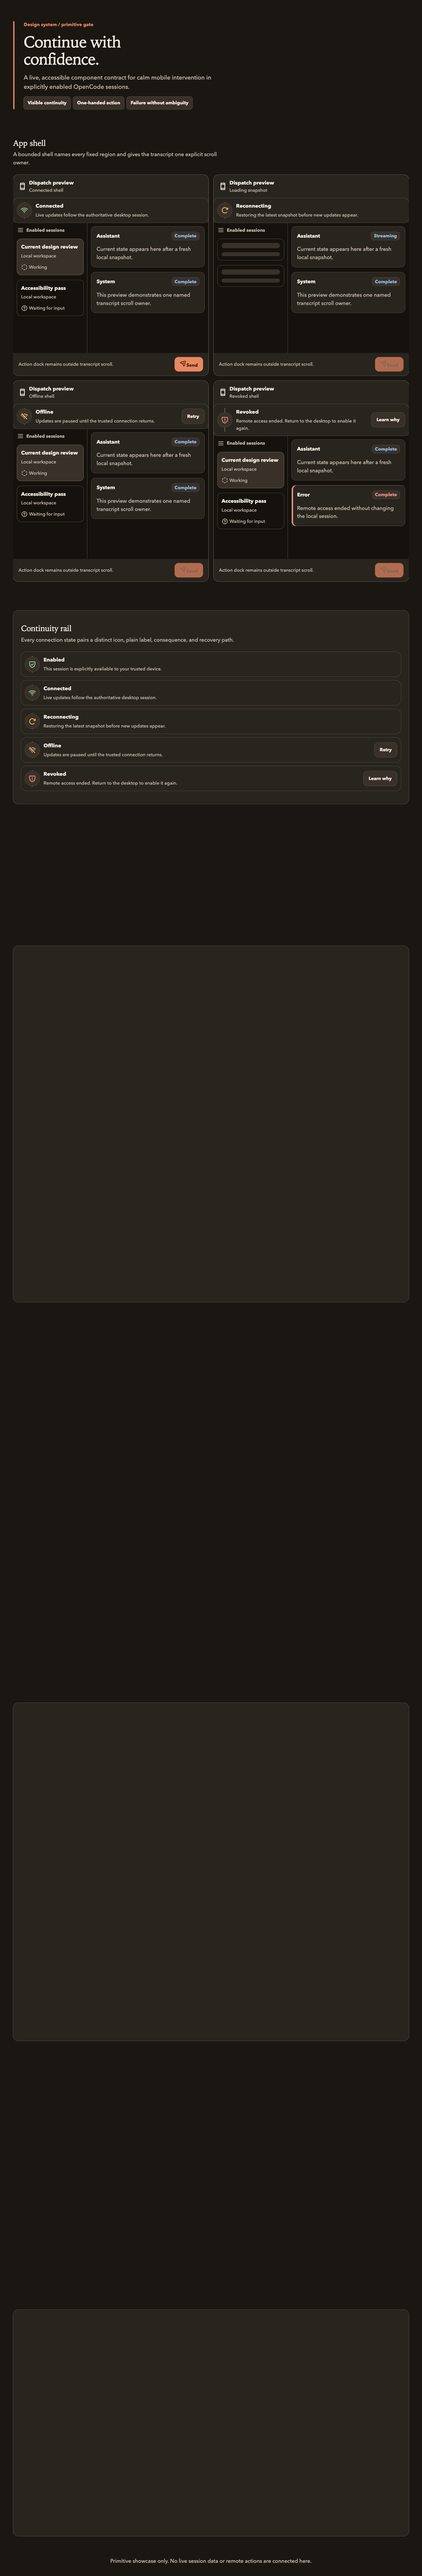
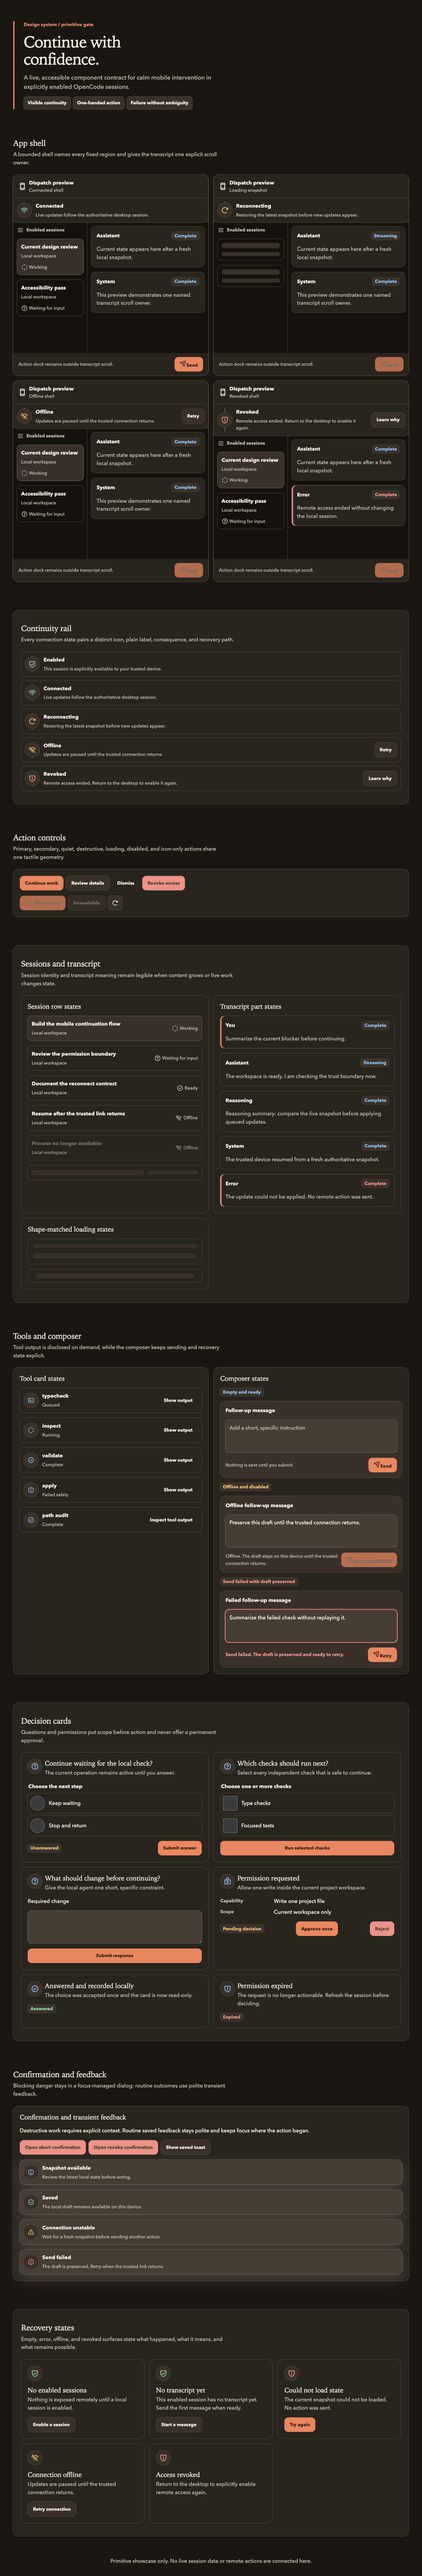
fix(design): preserve complete showcase evidence
Ultraworked with [Sisyphus](https://github.com/code-yeongyu/oh-my-openagent)

diff --git a/apps/pwa/scripts/audit-lighthouse.ts b/apps/pwa/scripts/audit-lighthouse.ts
@@ -115,8 +115,8 @@ async function runAudit(): Promise<void> {
     try {
       const measurements: AuditMeasurement[] = []
       for (const preset of PRESETS) {
-        await measure(chrome.port, preset, 0)
         for (let run = 1; run <= RUN_COUNT; run += 1) {
+          await measure(chrome.port, preset, 0)
           measurements.push(await measure(chrome.port, preset, run))
         }
       }

diff --git a/apps/pwa/src/showcase/styles/layout.css b/apps/pwa/src/showcase/styles/layout.css
@@ -85,8 +85,6 @@
   gap: var(--space-6);
   padding-block: var(--space-8);
   scroll-margin-block-start: var(--space-4);
-  content-visibility: auto;
-  contain-intrinsic-block-size: auto calc(var(--space-16) * 12);
 }
 
 .showcase-section[data-tone="muted"] {

diff --git a/apps/pwa/evidence/todo-4/verification.md b/apps/pwa/evidence/todo-4/verification.md
@@ -70,3 +70,6 @@ Todo 4 satisfies its design, implementation, TDD, accessibility, responsive, vis
 - Final `bun run --cwd apps/pwa test:e2e` regenerated `playwright-results.json`: 149 passed, 19 intentional profile skips, zero failures across 168 cases.
 - Fresh full-page captures measure 375x13979, 768x8305, and 1280x7804 in both light and dark themes; every browser measurement reported `clientWidth === scrollWidth`.
 - Manual production Chrome QA checked the multiple-choice control, free-response field, and Kobalte saved toast; all worked with zero console warnings or errors.
+- A proposed `content-visibility` optimization passed functional gates but produced blank lower sections in full-page evidence and was rejected by both visual reviewers.
+- Corrected final captures restored every section. Reviewer sessions `ses_018e2e23fffe6L1Y7ED6FX9y58` and `ses_018e2e0ecffeTIrecOQfpeWI09` returned PASS with high confidence and no blockers.
+- The final Lighthouse runner warms Chrome immediately before each recorded measurement; all three mobile and three desktop runs scored 100 in every category.

diff --git a/apps/pwa/evidence/todo-4/visual-qa.md b/apps/pwa/evidence/todo-4/visual-qa.md
@@ -38,3 +38,7 @@ Both fresh independent reviewers pass the post-remediation Todo 4 primitive show
 - Fresh captures: all six 375/768/1280 light/dark full-page PNGs regenerated after the variant implementation.
 - Visual-fidelity reviewer session `ses_018faca4affeQY6OKsY8R17OTW`: **PASS**, high confidence, no blockers.
 - The first integrity pass correctly rejected a stale targeted Playwright JSON artifact; the complete matrix was rerun without overriding the configured JSON reporter before final integrity review.
+- A later performance experiment using `content-visibility` was also rejected because full-page captures contained blank intrinsic-size placeholders.
+- Corrected final design reviewer `ses_018e2e23fffe6L1Y7ED6FX9y58`: **PASS**, high confidence, no blockers.
+- Corrected final integrity reviewer `ses_018e2e0ecffeTIrecOQfpeWI09`: **PASS**, high confidence, no blockers.
+- Both reviewers directly confirmed all six corrected captures contain every lower showcase section and all required variants without clipping or horizontal overflow.
